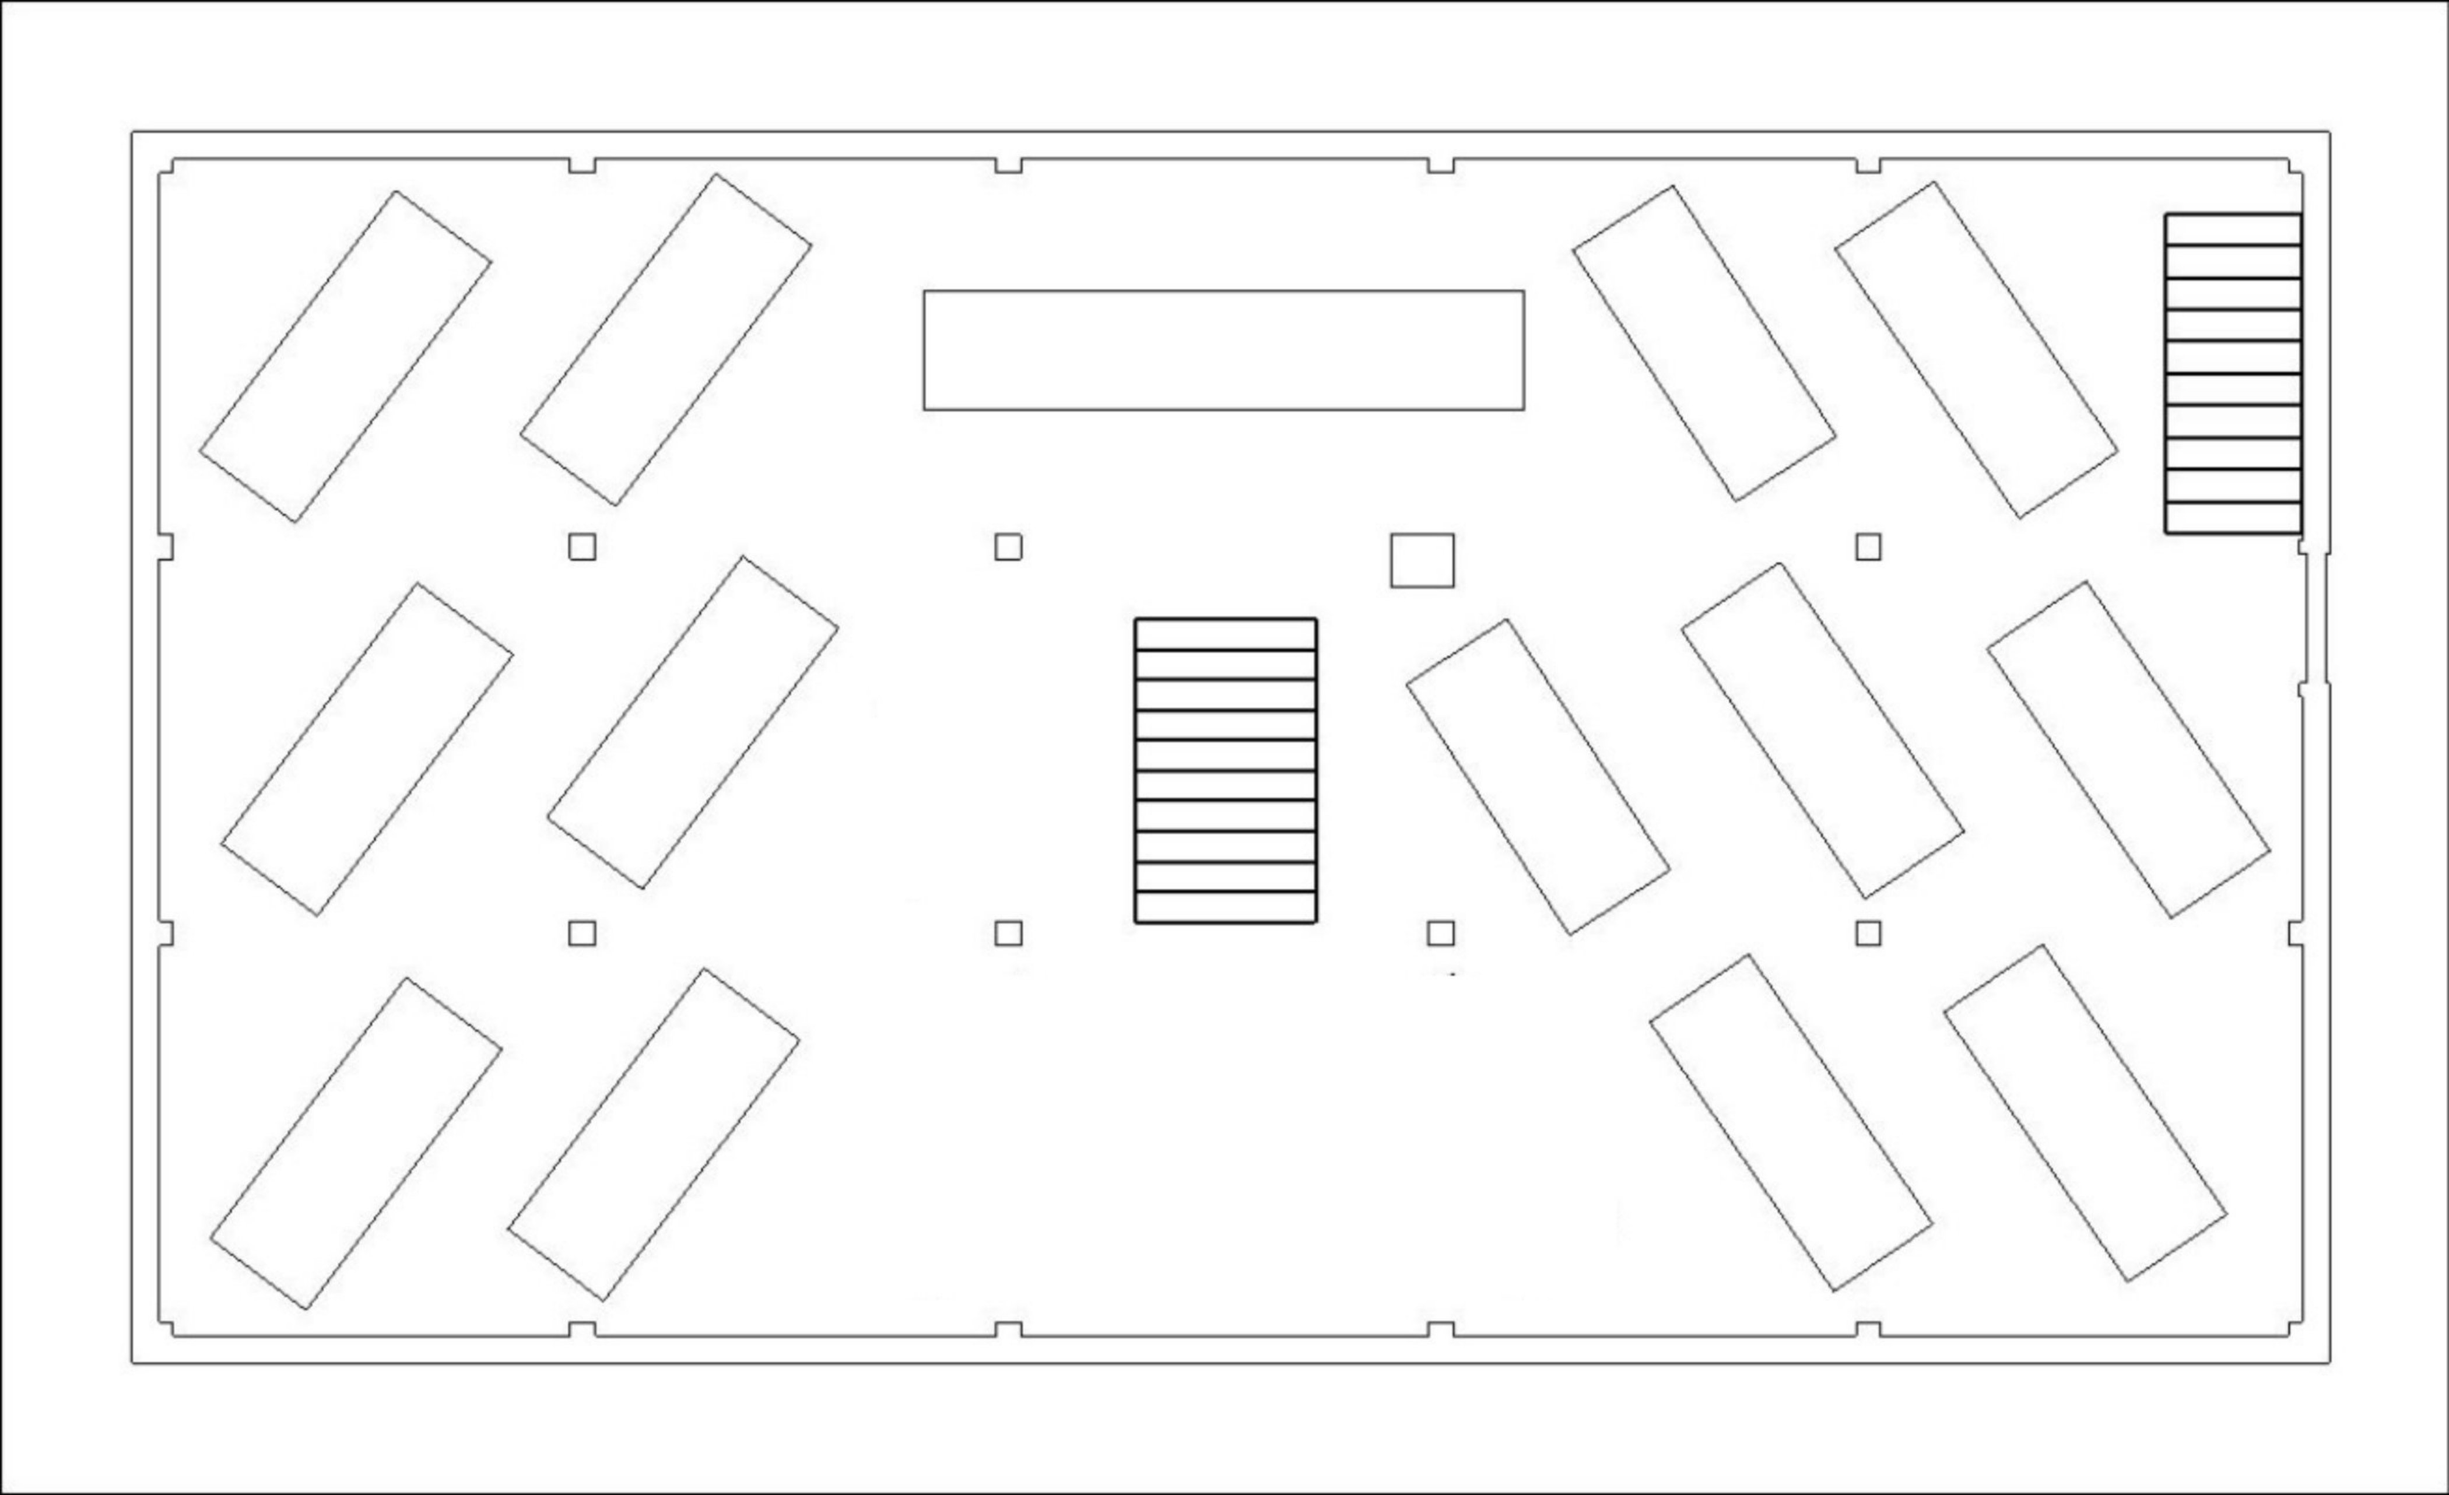
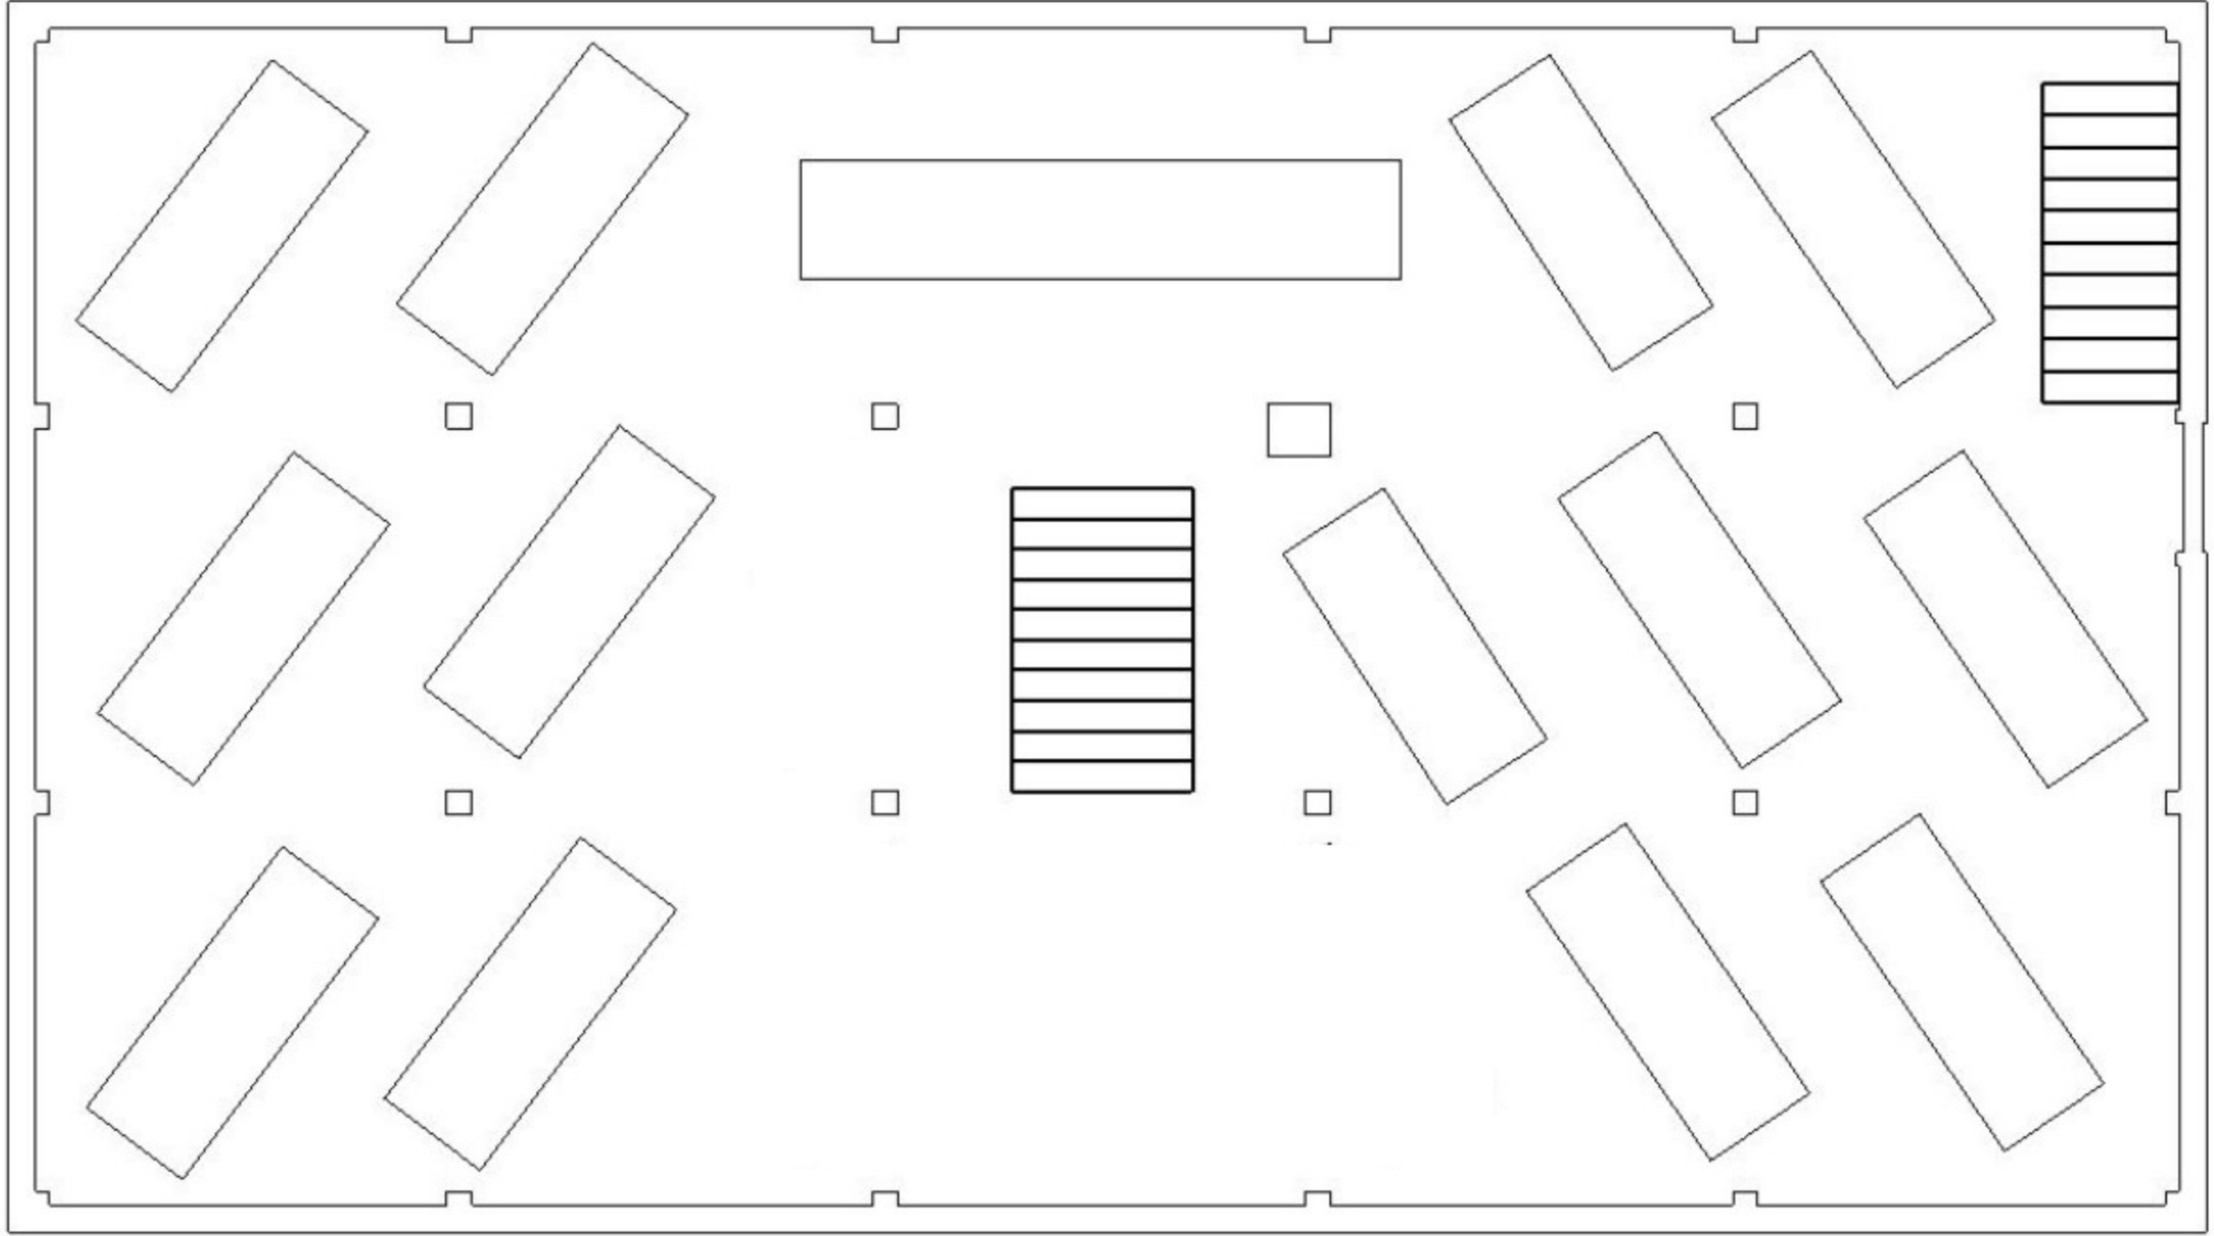
cont'd work

diff --git a/partybok.tex b/partybok.tex
@@ -17,6 +17,7 @@
 \usepackage{array}
 \usepackage{lipsum}
 \usepackage{tikz}
+\usepackage{setspace}
 
 
 %\renewcommand{\thesection}{}
@@ -57,46 +58,80 @@
 	\pagestyle{fancy}
 	\lhead{}\chead{}\rhead{}
 	\cfoot{\vspace*{-2\baselineskip}\thepage}
-	
-		
+	\renewcommand{\headrulewidth}{0pt}
 	\section{Välkomna}
 	\newpage
 	
 	\tableofcontents
 	\newpage
 	
+	\section{Meny}
+	\begin{spacing}{1.3}
+		\subsection*{Snittar}
+		\textit{Västerbottenssnitt med gräslökskräm och rödbetsskott \\
+		Polenta med sötpotatis och bönor \\
+		Hush puppies med ärtor och chilli \\}
+	\end{spacing}	
 	
-	\thispagestyle{empty}
+	\subsection*{Huvudrätt}
+	\begin{spacing}{1.3}
+		\textit{Amerikansk ek- och hickoryrökig Oxbringa eller högrev \\ 
+		Cajunkryddad och sotat norsk fjordlax med aska och frön \\
+		Getost med betor, picklade steklökar samt getostdressing. \\
+		Krispig sötpotatis med gräslöksdressing och granatäpple \\
+		Roman- och frisésallad, med rostade valnötter, caesardressing och vitlökskrutonger \\
+		Rostade morötter saltbakad rotselleri och solrosfrön \\
+		Rökta tomater i nötter, honung och puffat vete \\
+		Rostad blomkål med tryffeljord  \\
+		Surdegsbröd \\
+		Örtsmör} \\
+	\end{spacing}	
+	
+		\subsection*{Fördessert}
+		\textit{Citronbavaroise med dillpulver och smetanasorbet}
+		
+		\subsection*{Tårta}
+		\begin{spacing}{1.3}
+		\textit{Chokladmousse fylld med körsbär- och vaniljpannacotta, dekorerad med chokladflarn, vaniljmaränger och jordgubbsmakroner}
+		\end{spacing}
+	
+	\newpage
+	\section{Dryck}
+	\newpage
+
 	\restoregeometry % restores the geometry
 	
 	\begin{landscape}
 	\addcontentsline{toc}{section}{Bordsplacering}
-		
+	\thispagestyle{empty}	
 	\begin{tikzpicture}[remember picture, overlay]
 	
-	\node[inner sep=0pt] (borsplacering) at (7.6, -4.2) {\includegraphics[width=1.35\paperwidth]{Bordsplacering.jpg}} ;
+	\node[inner sep=0pt] (borsplacering) at (7.6, -4.2) {\includegraphics[width=1.4\paperwidth]{Bordsplacering.jpg}} ;
 	
-	\node[] (Bord 1) at (0.5,-0.8) {\circled{1}};
-	\node[] (Bord 2) at (3,-0.8) {\circled{2}};
-	\node[text=purple] at (7.6,-0.90) {Honnörsbordet};
-	\node[] (Bord 3) at (11.5,-0.8) {\circled{3}};
-	\node[] (Bord 4) at (13.7,-0.8) {\circled{4}};
+	\node[] (Bord 1) at (-0.8,-0.6) {\large \circled{1}};
+	\node[] (Bord 2) at (2.2,-0.6) {\large \circled{2}};
+	\node[text=purple] at (7.7,-0.50) {\large Honnörsbordet};
+	\node[] (Bord 3) at (12.2,-0.6) {\large \circled{3}};
+	\node[] (Bord 4) at (14.6,-0.6) {\large \circled{4}};
 	% Rad 2		
-	\node[] (Bord 5) at (0.5,-4.1) {\circled{5}};
-	\node[] (Bord 6) at (3.1,-4.1) {\circled{6}};
-	\node[] (Bord 7) at (10,-4.1) {\circled{7}};
-	\node[] (Bord 8) at (12.5,-4.1) {\circled{8}};
-	\node[] (Bord 9) at (15,-4.1) {\circled{9}};
+	\node[] (Bord 5) at (-0.5,-4.1) {\large \circled{5}};
+	\node[] (Bord 6) at (2.4,-4.1) {\large \circled{6}};
+	\node[] (Bord 7) at (10.3,-4.1) {\large \circled{7}};
+	\node[] (Bord 8) at (13.3,-4.1) {\large \circled{8}};
+	\node[] (Bord 9) at (15.9,-4.1) {\large \circled{9}};
 	% Rad 3
-	\node[] (Bord 10) at (0.5,-7.4) {\circled{10}};
-	\node[] (Bord 11) at (3,-7.4) {\circled{11}};
-	\node[] (Bord 12) at (12.4,-7.4) {\circled{12}};
-	\node[] (Bord 13) at (14.8,-7.4) {\circled{13}};
+	\node[] (Bord 10) at (-0.3,-7.6) {\large \circled{10}};
+	\node[] (Bord 11) at (2.3,-7.6) {\large \circled{11}};
+	\node[] (Bord 12) at (12.7,-7.6) {\large \circled{12}};
+	\node[] (Bord 13) at (15.6,-7.6) {\large \circled{13}};
 	
 	\node[] (Page no) at (7.8,-11.5) {\thepage};
 	\end{tikzpicture}
 	\end{landscape}
 	
+	
+	\begingroup
+	\fontsize{10pt}{10.3pt}\selectfont
 	
 	\newgeometry{left=0.3cm,bottom=0cm,top=0.3cm,right=0.3cm}
 	\begin{landscape}
@@ -148,16 +183,16 @@
 			Katja Wigren	&	Gustav Svebring			\\
 			Carl-David Ekblom	&	Emma Thorstenson	\\ 
 			Anna Möller	&	Daniel Svärd				\\ 
+			\\
+			\multicolumn{2}{c}{\textbf{Bord 7}} 				\\ \hline
+			Anna Joelsson	&	Björn Andersson	\\
+			Axel Merkel		&	Maria Karlsson	\\ 
+			Erika Holmer	&	Gustav Svanfeldt	\\ 
+			
 			
 		\end{tabular}
 		\quad \hspace*{2cm}
 		\begin{tabular}{  l  l }
-				\multicolumn{2}{c}{\textbf{Bord 7}} 				\\ \hline
-				Anna Joelsson	&	Björn Andersson	\\
-				Axel Merkel		&	Maria Karlsson	\\ 
-				Erika Holmer	&	Gustav Svanfeldt	\\ 
-				&										\\ 
-				
 				\multicolumn{2}{c}{\textbf{Bord 8}} 				\\ \hline
 				Matilda Arro	&	Wiktor Holstenson	\\
 				Mattias Kardell	&	Lars Johannesson	\\ 
@@ -186,23 +221,19 @@
 				Malin Lindström	&	Andree Krantz Rosenquist	\\
 				Kjell Pollack	&	Fia Storkull	\\ 
 				Anna Merkel Möller	&	Amir Mothagi	\\ 		
+				& \\ 
+				\multicolumn{2}{c}{\textbf{Bord 13}} 				\\ \hline
+				Renisa Kokoneshi	&	Hampus Lynghed	\\
+				Jonatan Hermansson	&	Lara Borges	\\ 
+				Ooy Ingmansson	&	Roger Österback	\\ 
+				&									\\ \\ \\ \\ \\
+				 
 		\end{tabular}
 	\end{center}
 	\newpage
-	
-	\begin{tikzpicture}[remember picture, overlay]
-	\node[] (Page no) at (10,-13.8) {\thepage};		
-	\end{tikzpicture}
-	
-		\begin{tabular}{  l  l }
-			\multicolumn{2}{c}{\textbf{Bord 13}} 				\\ \hline
-			Renisa Kokoneshi	&	Hampus Lynghed	\\
-			Jonatan Hermansson	&	Lara Borges	\\ 
-			Ooy Ingmansson	&	Roger Österback	\\ 
-			&										\\ 
-		\end{tabular}
-		
+
 	\end{landscape}
+	\endgroup
 	
 	\restoregeometry
 	\newpage
@@ -290,13 +321,13 @@
 				Mikael Bergström	&	Kusin till bruden. Stockholmsbo men tidigare dalmas. Bygger på stugprojekt på sommaren och skjutsar till skidbackar på vintern. Gift med Anna-ida.	\\
 				Moa Chley Tegnelund	&	Vän till bruden från universitetet och medlem i BP. Lantmätare och stolt norrbottning boende i Malmö. Gillar beachvolleyboll och resor med rosabussarna.  	\\
 				Elisabet Ingmanson	&	Mormor till bruden. Hundälskare som numera är kattägare. Har köket tappeserat med teckningar från barnbarnen och dricker gärna kaffe.	\\
-				Ooy Ingmansson	&	Brudens morbror Pers fru. XXXXXXXXXXXXXXXXXXXXXXXXXXXXXXXXXXXXXXXXXXXXXXXXXX	\\
+				Ooy Ingmansson	&	Brudens morbror Pers fru. \textbf{XXXXXXXXXXXXXXXXXXXXXXXXXXXXXXXXXXXXXXXXXXXXXXXXXX}	\\
 				Per Ingmansson	&	Brudens morbror. Har familjens rekord på marathon. Skogsägare som gärna jagar. 	\\
 				Per Wahlstedt	&	Sambo till brudgummens syster Rebecka. Stor frisbeenörd som då och då bulkar på gymmet. 	\\
 				Peter Levin	&	Vän till brudpatet. Lärde känna brudparet via Runaccedemy. Driven idrottslärare som är snabb i löpspåret.	\\
 				Rebecka Merkel	&	Brudgummens lillasyster. Frisbee-älskannde Lundabo som blåser fram på rullskidor i snöfattiga skåne. Vinner gärna över sin bror i brädspel.' Sambo med Per. 	\\
 				Renisa Kokoneshi	&	Sambo till Andree. Chicagotjej som numera bor i Tranås och studerar på Linköpings universitet.	\\
-				Richard Skogh	&	Sambo Emma T. Boende utanför Åtvidaberg.  XXXXXXXXXXXXXXXXXXXXXXXXXXXXXXXXXXX	\\
+				Richard Skogh	&	Sambo Emma T. Boende utanför Åtvidaberg.  \textbf{XXXXXXXXXXXXXXXXXXXXXXXXXXXXXXXXXXX}	\\
 				Robert Eriksen	&	Barndomsvän till brudgummen. Lärde känna brudgummen via SS Allians. Whiskyentusiast och har många gånger slagit brudgummen i TV-spel. Gift med Linda. 	\\
 				Robert Janson	&	Emmas storasysters sambo och nära vän till brudummen. Klätterapa och chiliodlare på vars 30-årsfest bruden och brudgummen träffades.	\\
 				Roger Alne	&	Sambo med Sanna. Norsk brandingenjör boende utanför Oslo och tvåbarnsfar.	\\
@@ -311,6 +342,12 @@
 				Victor Ingemansson	&	Gift med Caroline och BP-stalker. Malmöbo men IFK-göteborgsupporter som besegrat Kullamannen dubbeldöden och sprungit marathon med brudparet.	\\
 				Wiktor Holstenson	&	Vän till brudgummen från gymnasiet. Norrköpingsbo och sportfiskare med båten ständigt på släp. Friterar goda pommes till efterfesten. 	\\
 		\end{longtable}
+	
+	\newpage
+	
+	\section{Fun facts}
+	
+	\subsection{Vad i bövelen är BP för någonting?}
 	
 	\newpage
 	
@@ -378,7 +415,24 @@
 		Och vi dansade runt där på golvet \\
 		och skrek så vi blev blå:\\
 		”Bordeaux, Bordeaux!” \\
+
+		\subsection{Feta Fransyskor}
+		\textit{Melodi: Marche Militaire} \\
 		
+		\noindent
+		Feta fransyskor som svettas om fötterna, \\
+		de trampar druvor som sedan ska jäsas till vin. \\
+		Transpirationen viktig é, ty den ge’ fin bouquet. \\
+		Vårtor och svampar följer me’ men vad gör väl de’? \\
+		
+		\noindent
+		För… vi vill ha vin, vill ha vin, vill ha mera vin, \\
+		även om följderna blir att vi få lida pin. \\
+		Töser: Flaskan och glaset gått i sin. \\
+		Pågar: Hit med vin, mera vin! \\
+		Töser: Tror ni att vi är fyllesvin? \\
+		Pågar: JA! (fast större) \\
+				
 		\newpage
 		
 		
@@ -386,34 +440,12 @@
 \textit{Mellodi: She'll be coming down the mountin} \\
 
 \noindent
-:,: Du ska få min gamla fennel när jag dör :,: \\
-ty i pradisets lunder \\
-mäter man uppå sekunder. \\ 
-Du ska få min gamla fennel när jag dör. \\
-
-\noindent
-:,: Du ska få mitt vinkelprisma när jag dör :,:\\
-ty därnere i det heta \\
-äro alla vinklar reta. \\
-Du ska få mitt vinkelprisma när jag dör. \\
-
-\noindent
-:,: Du ska få min gamla Ljungström när jag dör :,: \\
-ty vid satans hemska låtar \\
-smälta alla mätbordsplåtar. \\
-Du ska få min gamla Ljungström när jag dör.\\ 
 
 \noindent
 :,: Du ska få mitt lod med snöre när jag dör :,: \\
 ty i paradisets hagar \\
 gälla inte Newtons lagar.\\
 Du ska få mitt lod med snöre när jag dör. \\
-
-\noindent
-:,: Du ska få min gamla VF när jag dör :,: \\
-ty därnere bland allt svavel \\
-fins det ändå nog med dravel. \\
-Du ska få min gamla VF när jag dör. \\
 
 \noindent
 :,: Du ska få mitt gamla mätband när jag dör :,: \\
@@ -427,13 +459,39 @@ ty i kalla, blöta kalken \\
 gäller inte jordabalken \\
 Du ska få min gamla lagbok när jag dör. \\
 
-\noindent
-:,: Du ska få mitt gamla banklån när jag dör :,: \\
-ty när Döden drar sin lie \\
-har jag långt till F29 \\
-Du ska få mitt gamla banklån när jag dör. \\
-
 \newpage
+
+\subsection{Finland}
+\textit{Melodi: Högt över havet} \\
+
+\noindent 
+Finland är Finland och Finland är bra. \\
+Dom har en pipeline med sprit från Moskva. \\
+Bada Bastu, piska med ris, \\
+hacka hål i is. \\
+
+\noindent 
+Danmark är Danmark och Danmark är bra. \\
+Dom har en jungfru som sitter så bar. \\
+Röde pölsor med Tuborg och lök, \\
+vi köpte billig krök \\
+
+\noindent 
+Norge är Norge och Norge är bra. \\
+Dom har den olja som vi vill ha. \\
+Dyrt i baren ett jävla pris, \\
+klubba säl med is. \\
+
+\noindent 
+Island är Island och Island är bra. \\
+Kriser, vulkaner och hästar dom har. \\
+Jag fiser i geisern vad var det jag sa, valspeck varje dag. \\
+
+\noindent 
+Sverige är Sverige och Sverige är bäst. \\
+Ingvar Kamprad han tjänar mest. \\
+Ullared, Abba och Absolut, \\
+Nu är visan slut. \\
 
 
 \subsection{Mera brännvin i glasen}
@@ -451,22 +509,6 @@ mera månar kring Mars, \\
 mera marscher till Skåne, \\
 mera Skåne, Gud bevars, bevars, bevars! \\
 
-\subsection{Feta Fransyskor}
-\textit{Melodi: Marche Militaire} \\
-
-\noindent
-Feta fransyskor som svettas om fötterna, \\
-de trampar druvor som sedan ska jäsas till vin. \\
-Transpirationen viktig é, ty den ge’ fin bouquet. \\
-Vårtor och svampar följer me’ men vad gör väl de’? \\
-
-\noindent
-För… vi vill ha vin, vill ha vin, vill ha mera vin, \\
-även om följderna blir att vi få lida pin. \\
-Töser: Flaskan och glaset gått i sin. \\
-Pågar: Hit med vin, mera vin! \\
-Töser: Tror ni att vi är fyllesvin? \\
-Pågar: JA! (fast större) \\
 
 \newpage
 \subsection{Spritbolaget}
@@ -513,5 +555,17 @@ så var det menat\\
 whisky och renat\\
 vårt mål alkohol!\\
 För dem som tål! - SKÅL\\
-\newpage	
+\newpage
+
+
+\section{Svar tipspromenad}
+
+
+\newpage
+
+\section{Tack}
+Stort tack till alla er som hjälpt oss förgylla vår dag!
+
+
+
 \end{document}
